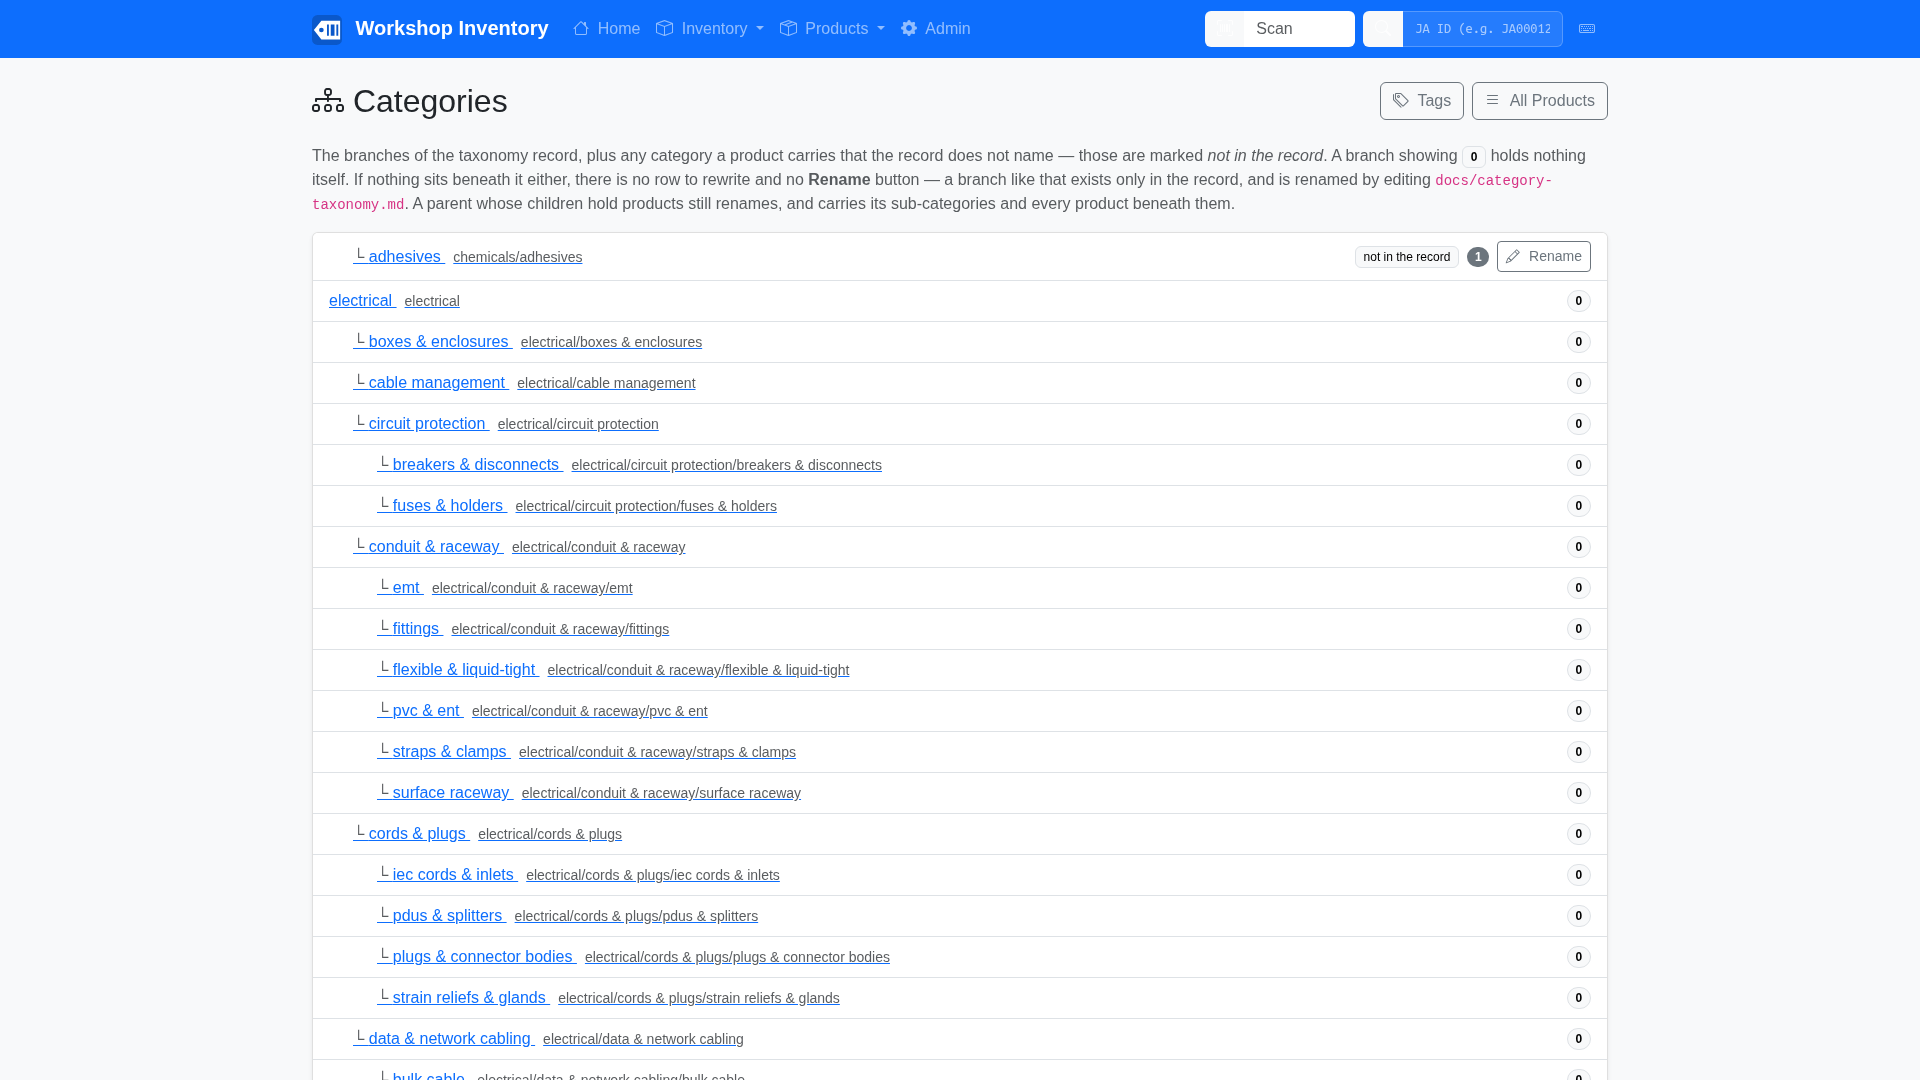
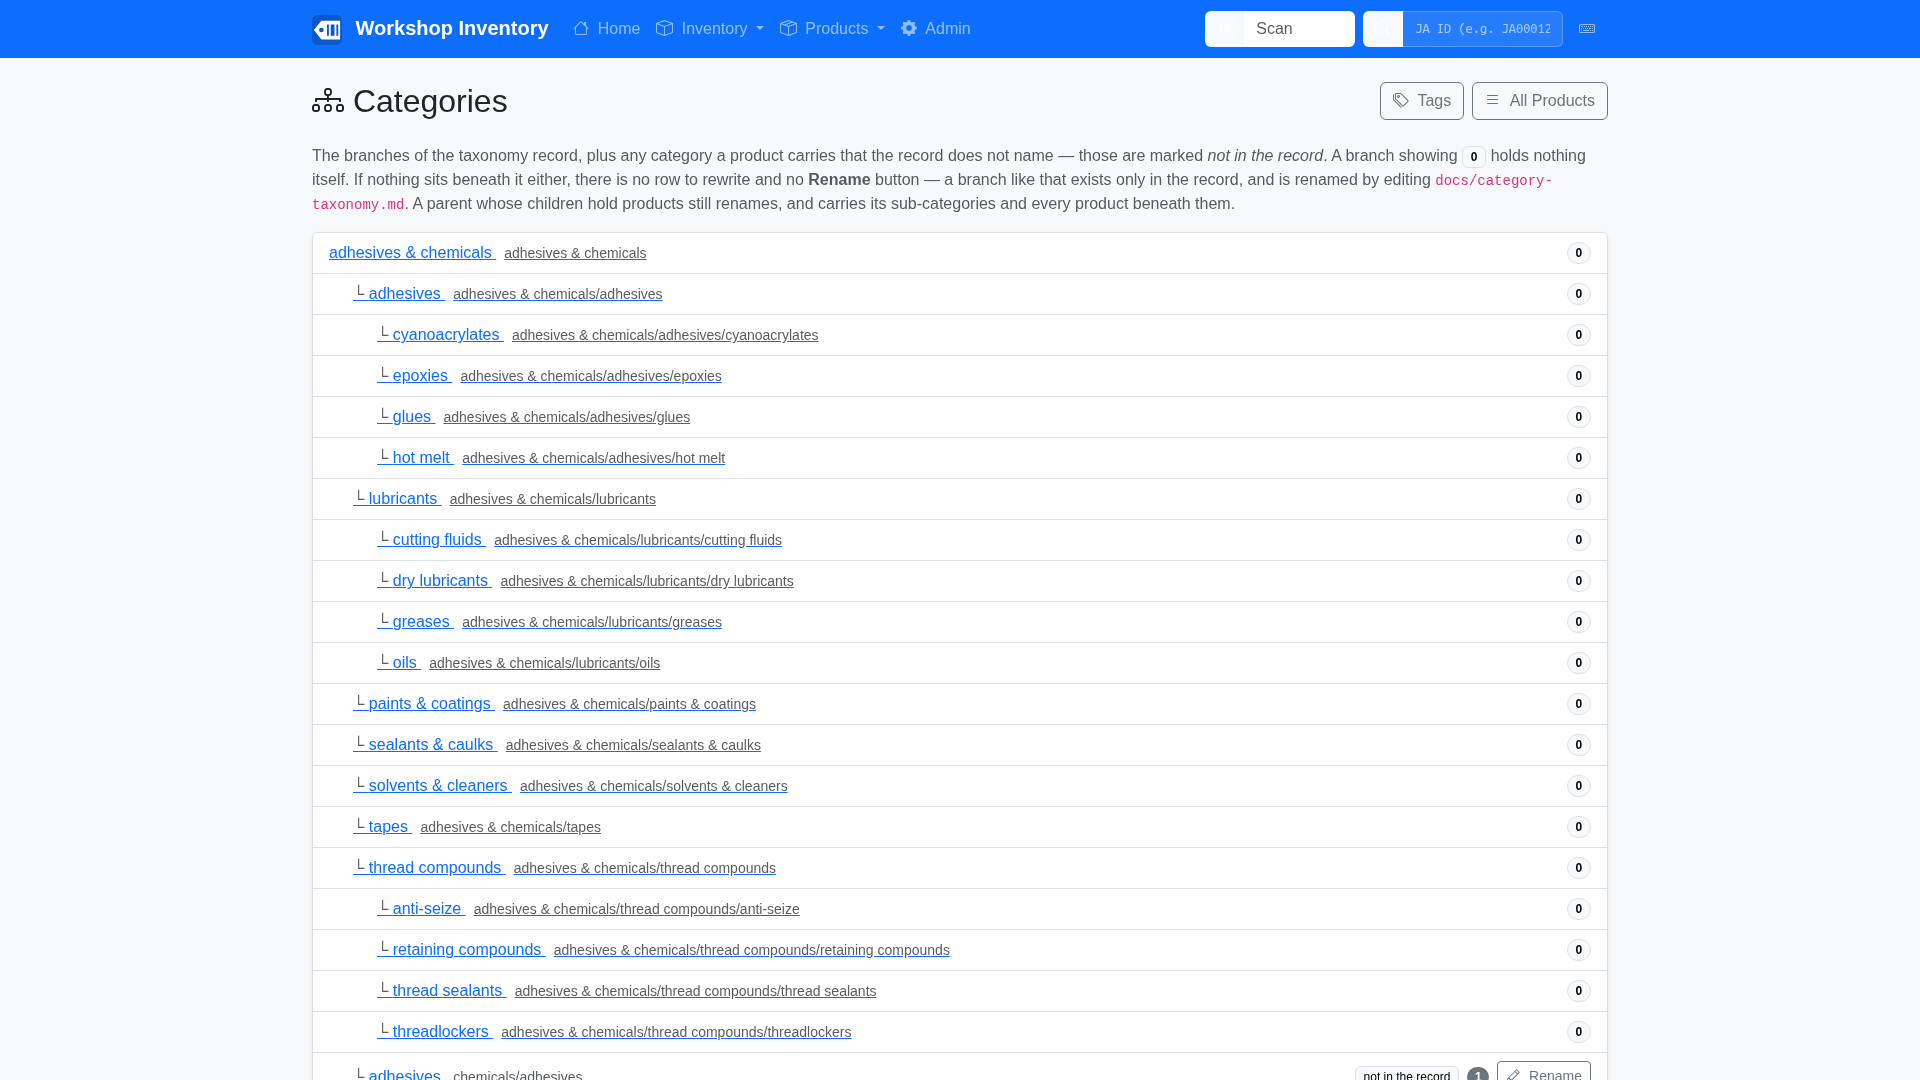
docs(055): regenerate the category tree screenshot (#182)
The three new roots are offered on the categories page, and
adhesives & chemicals now sorts first. A baseline run without the change
shows every other regenerated screenshot is ordinary run-to-run churn.

Claude-Session: https://claude.ai/code/session_01NNHFw7JizYkHkFe2bsrdLn

Changed region(s): [[0.1562, 0.2139, 0.5, 1.0], [0.6875, 0.9778, 0.8438, 1.0], [0.7188, 0.2139, 0.8438, 0.2444]]

diff --git a/specs/055-tool-taxonomy/tasks.md b/specs/055-tool-taxonomy/tasks.md
@@ -36,9 +36,9 @@ No setup is needed; every file already exists.
 ## Phase 6: Polish
 
 - [X] T012 Run `nox -s tests` and `nox -s e2e -- tests/e2e/test_category_taxonomy.py tests/e2e/test_product_specifications.py`.
-- [ ] T013 Regenerate screenshots with `nox -s screenshots_headless`. Measure baseline churn first. Commit only files this feature changed (expected: `docs/images/screenshots/user-manual/category_tree.png`). Run `nox -s screenshots_verify`.
+- [X] T013 Regenerate screenshots with `nox -s screenshots_headless`. Measure baseline churn first. Commit only files this feature changed (expected: `docs/images/screenshots/user-manual/category_tree.png`). Run `nox -s screenshots_verify`.
 - [ ] T014 Run the full `nox -s e2e` detached, and confirm it is green.
-- [ ] T015 Run the spelling check `grep -ric catalogue README.md docs/ app/ tests/`; it must return nothing.
+- [X] T015 Run the spelling check `grep -ric catalogue README.md docs/ app/ tests/`; it must return nothing.
 
 ## Dependencies
 
